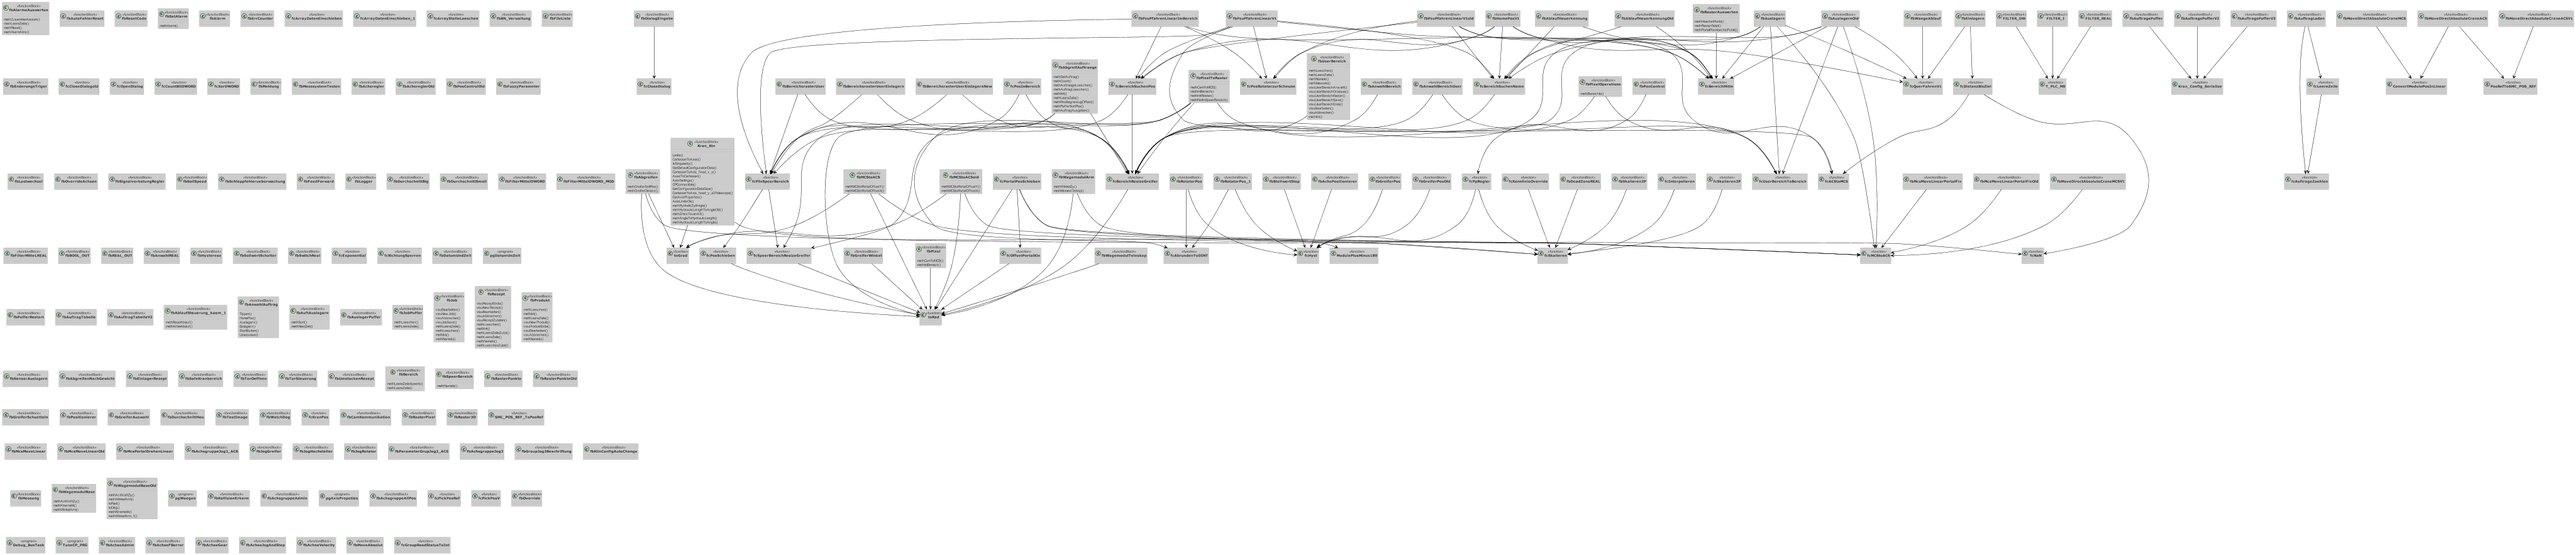
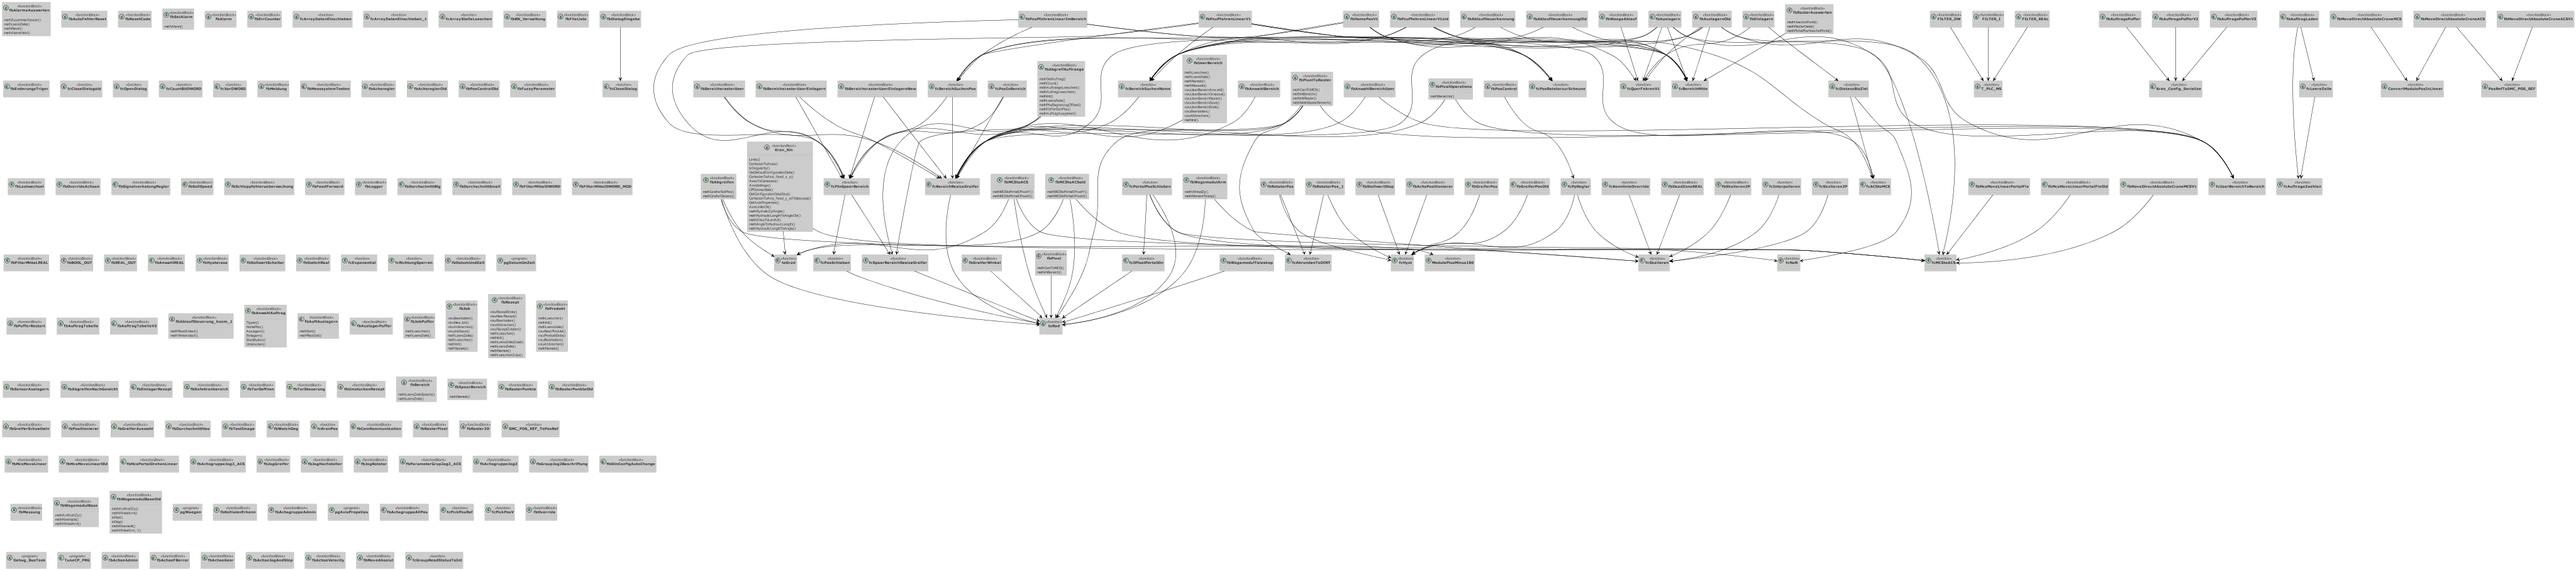
a

diff --git a/xml_zu_json.py b/xml_zu_json.py
@@ -1,0 +1,16 @@
+import xmltodict
+import json
+import xml
+
+# XML-Datei einlesen
+with open('projekt_export/projekt copy.xml', 'r') as xml_file:
+    xml_data = xml_file.read()
+
+# XML zu JSON konvertieren
+json_data = json.dumps(xmltodict.parse(xml_data), indent=4)
+
+# JSON-Daten in eine Datei schreiben
+with open('projekt_export/projekt.json', 'w') as json_file:
+    json_file.write(json_data)
+
+print("XML wurde erfolgreich in JSON konvertiert und gespeichert.")

diff --git a/projekt_export/parser.py b/projekt_export/parser.py
@@ -192,7 +192,7 @@ def parse_xml_nur_mit_connections(xml_file):
                     if f"{name}.{method}(" in pou_text:
                         pou_ruft_auf.append(f"{name}.{method}")
 
-            if len(pou_ruft_auf)>0:
+            if len(pou_ruft_auf)>2:
                 plantuml_string = f'class {pou_name} << {pou_type} >>'
                 f.write(plantuml_string + '{\n')
                 # Write the methods to the PlantUML diagram
